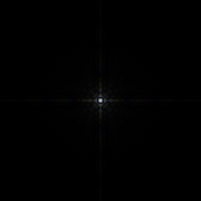
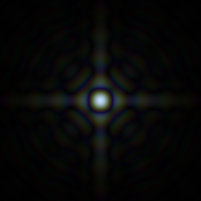
Messed around with PSFs a bit

Changed region(s): [[0.2388, 0.2388, 0.7463, 0.7463]]

diff --git a/src/com/ameliaWx/simSpike/test/ApertureTest.java b/src/com/ameliaWx/simSpike/test/ApertureTest.java
@@ -65,7 +65,7 @@ public class ApertureTest {
     }
 
     private static Color correctGreenCast(Color c) {
-        return new Color(c.getRed(), (int) (0.8 * c.getGreen()), c.getBlue());
+        return new Color(c.getRed(), (int) (0.80 * c.getGreen()), c.getBlue());
     }
 
     private static BufferedImage renderKernel(float[][] kernel) {

diff --git a/src/com/ameliaWx/simSpike/optics/PointSpreadFunction.java b/src/com/ameliaWx/simSpike/optics/PointSpreadFunction.java
@@ -203,7 +203,7 @@ public class PointSpreadFunction {
 
         gpuStart = System.currentTimeMillis();
 
-        kernel.setup(a, 100);
+        kernel.setup(a, 400);
         kernel.execute(range);
         kernel.finish();
         kernel.dispose();
